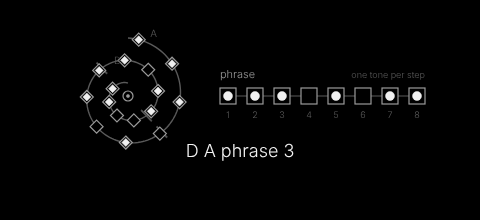
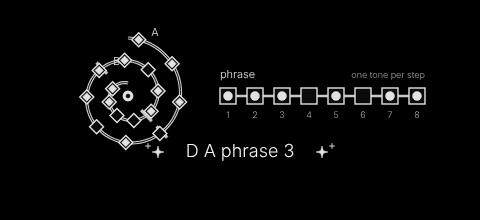
opxy: meikyu page in the print style; the style noted in the README
A light corridor with an ink walkway, ink step markers with cream dots,
a cream eye at the centre, starbursts beside the title line.

Claude-Session: https://claude.ai/code/session_01NVuADSekPuepRXPtea7j15

diff --git a/machines/meikyu/gen_panel.py b/machines/meikyu/gen_panel.py
@@ -11,7 +11,8 @@ along a track on the right (dots 16..23, lit when they sounded). Greyscale.
 Copyright (c) 2026 briannhinton. MIT."""
 import math
 
-EDGE, SEC, DEC, LITE, DARK = '#CBCBCB', '#9A9A9A', '#5A5A5A', '#F0F0F0', '#2A2A2A'
+EDGE, SEC, DEC, LITE, DARK = '#CBCBCB', '#A4A4A4', '#6E6E6E', '#F0F0F0', '#2A2A2A'
+INK, PAPER, CREAM = '#0A0A0A', '#C9C9C9', '#E2E2E2'
 CX, CY = 128, 96                      # the labyrinth's centre
 R0, R1 = 13, 58                       # the spiral's inner and outer radius
 
@@ -53,34 +54,47 @@ def main():
         for k in range(0, len(points) - 1, 60):
             seg = points[k:k + 61]
             o.append('<path d="M' + ' L'.join(f'{f(x)},{f(y)}' for x, y in seg) + f'" fill="{fill}" stroke="{stroke}" stroke-width="{w}"/>')
-    runs([spiral_point(k / 240) for k in range(241)], stroke=DEC, w=1.4)
+    # the corridor: a light band (the spiral wall drawn wide) with the walkway dark inside it, like a woodcut maze
+    runs([spiral_point(k / 240) for k in range(241)], stroke=PAPER, w=3.2)
+    runs([spiral_point(k / 240) for k in range(241)], stroke=INK, w=1.0)
+    # starburst ornaments either side of the title line, as on the print
+    def star(cx, cy, r, points=4, inner=0.3):
+        pts = []
+        for k in range(points * 2):
+            a = -math.pi / 2 + k * math.pi / points
+            rr = r if k % 2 == 0 else r * inner
+            pts.append((cx + math.cos(a) * rr, cy + math.sin(a) * rr))
+        return poly(pts)
+    for sx, sy in ((158, 152), (322, 152)):
+        o.append(f'<path d="{star(sx, sy, 6, 4)}" fill="{CREAM}" stroke="{CREAM}" stroke-width="0.5"/>')
+        o.append(f'<path d="{star(sx + (10 if sx > 240 else -10), sy - 6, 3, 4)}" fill="{SEC}" stroke="{SEC}" stroke-width="0.5"/>')
     for u in (0.19, 0.44, 0.69):
         x, y = spiral_point(u)
         a = math.atan2(y - CY, x - CX)
         dx, dy = math.cos(a) * 7.5, math.sin(a) * 7.5
-        o.append(f'<path d="{poly([(x - dx - math.sin(a) * 0.7, y - dy + math.cos(a) * 0.7), (x + dx - math.sin(a) * 0.7, y + dy + math.cos(a) * 0.7), (x + dx + math.sin(a) * 0.7, y + dy - math.cos(a) * 0.7), (x - dx + math.sin(a) * 0.7, y - dy - math.cos(a) * 0.7)])}" fill="{DEC}" stroke="{DEC}" stroke-width="0.5"/>')
+        o.append(f'<path d="{poly([(x - dx - math.sin(a) * 1.4, y - dy + math.cos(a) * 1.4), (x + dx - math.sin(a) * 1.4, y + dy + math.cos(a) * 1.4), (x + dx + math.sin(a) * 1.4, y + dy - math.cos(a) * 1.4), (x - dx + math.sin(a) * 1.4, y - dy - math.cos(a) * 1.4)])}" fill="{PAPER}" stroke="{PAPER}" stroke-width="0.5"/>')
     # the centre: the sequencer's eye
-    o.append(f'<circle cx="{CX}" cy="{CY}" r="5" fill="none" stroke="{SEC}" stroke-width="1.2"/>')
-    o.append(f'<circle cx="{CX}" cy="{CY}" r="1.6" fill="{SEC}" stroke="{SEC}" stroke-width="0.5"/>')
+    o.append(f'<circle cx="{CX}" cy="{CY}" r="6" fill="{CREAM}" stroke="{INK}" stroke-width="1.2"/>')
+    o.append(f'<circle cx="{CX}" cy="{CY}" r="2" fill="{INK}" stroke="{INK}" stroke-width="0.5"/>')
     # the sixteen steps as diamonds along the spiral: the A half (0..7) outside, the B half (8..15) inside; step 0 at the top
     for i in range(16):
         x, y = spiral_point(0.015 + i * 0.955 / 16)
-        o.append(f'<path d="M{f(x)},{f(y - 6.5)} L{f(x + 6.5)},{f(y)} L{f(x)},{f(y + 6.5)} L{f(x - 6.5)},{f(y)} Z" fill="#000000" stroke="{SEC}" stroke-width="1.2"/>')
-        o.append(diamond(f'meikyu_dot_{i}', x, y, 4, LITE))
+        o.append(f'<path d="M{f(x)},{f(y - 7)} L{f(x + 7)},{f(y)} L{f(x)},{f(y + 7)} L{f(x - 7)},{f(y)} Z" fill="{INK}" stroke="{CREAM}" stroke-width="1.4"/>')
+        o.append(diamond(f'meikyu_dot_{i}', x, y, 4.2, CREAM))
     xa, ya = spiral_point(0.02); xb, yb = spiral_point(0.02 + 8 * 0.96 / 16)
-    o.append(text(xa + 8, ya - 4, 'A', 10, DEC))
-    o.append(text(xb - 14, yb + 3, 'B', 10, DEC))
+    o.append(text(xa + 9, ya - 5, 'A', 11, CREAM))
+    o.append(text(xb - 15, yb + 4, 'B', 11, CREAM))
 
     # the phrase track on the right: eight cells, the last phrase's tones light them in order
     x0, y0, gap = 228, 96, 27
-    o.append(f'<path d="M{x0 - 8},{y0} L{x0 + 7 * gap + 8},{y0}" fill="none" stroke="{DEC}" stroke-width="1.2"/>')
+    o.append(f'<path d="M{x0 - 8},{y0} L{x0 + 7 * gap + 8},{y0}" fill="none" stroke="{PAPER}" stroke-width="2.4"/>')
     for k in range(8):
         x = x0 + k * gap
-        o.append(f'<rect x="{f(x - 8)}" y="{f(y0 - 8)}" width="16" height="16" fill="#000000" stroke="{SEC}" stroke-width="1.2"/>')
-        o.append(dot(f'meikyu_dot_{16 + k}', x, y0, 4.5, LITE))
-        o.append(text(x, y0 + 22, str(k + 1), 9, DEC, 'middle'))
-    o.append(text(x0 - 8, y0 - 18, 'phrase', 11, SEC))
-    o.append(text(x0 + 7 * gap + 8, y0 - 18, 'one tone per step', 9, DEC, 'end'))
+        o.append(f'<rect x="{f(x - 8)}" y="{f(y0 - 8)}" width="16" height="16" fill="{INK}" stroke="{CREAM}" stroke-width="1.4"/>')
+        o.append(dot(f'meikyu_dot_{16 + k}', x, y0, 4.5, CREAM))
+        o.append(text(x, y0 + 22, str(k + 1), 9, SEC, 'middle'))
+    o.append(text(x0 - 8, y0 - 18, 'phrase', 11, CREAM))
+    o.append(text(x0 + 7 * gap + 8, y0 - 18, 'one tone per step', 9, SEC, 'end'))
     # the text line: the last root, which half the phrase began in, and the count
     o.append(f'<text id="meikyu_text" transform="matrix(1 0 0 1 240 157)" fill="#F2F2F2" font-family="UniversNextPro-Light" font-size="18" text-anchor="middle">meikyu</text>')
 

diff --git a/README.md b/README.md
@@ -58,6 +58,8 @@ The OP-1 screens drew hundreds of fresh lines per frame. The XY draws authored S
 
 Greyscale was less of a loss than I expected. The OP-1 screens already gave every control its own shape so colour was never the only cue; on the XY the shapes do all the work, with grey levels for lit against unlit.
 
+The look is a vintage western print, the kind of ink-on-cream label art with heavy contours, solid fills and hatching for shade, inverted for the XY's black screen: light-filled shapes (`#C9C9C9` paper, `#E2E2E2` cream) with ink (`#0A0A0A`) detail drawn on top of them, hatching as short ink strokes on the shaded sides, and starburst ornaments in the corners. That inversion is what makes it work on an OLED: a black line around a cream shape would vanish against the black background, so the contour is the fill's own edge and the ink goes inside.
+
 Two XY-specific things worth knowing, plus the device's own drawing rules:
 
 - **The screen doesn't know the pitch.** The XY tells a display how many notes are held and counts note starts; it doesn't say which note. On the OP-1 the engine told the screen which drum zone a hit landed in. Here theseus's screen walks a stand-in pattern (kick-heavy, like a DRM pattern, seeded by the note count) to decide which drum the sticks hit. The sound follows the real pitch; the drawing follows a plausible one. The head still turns toward the drum it draws.
